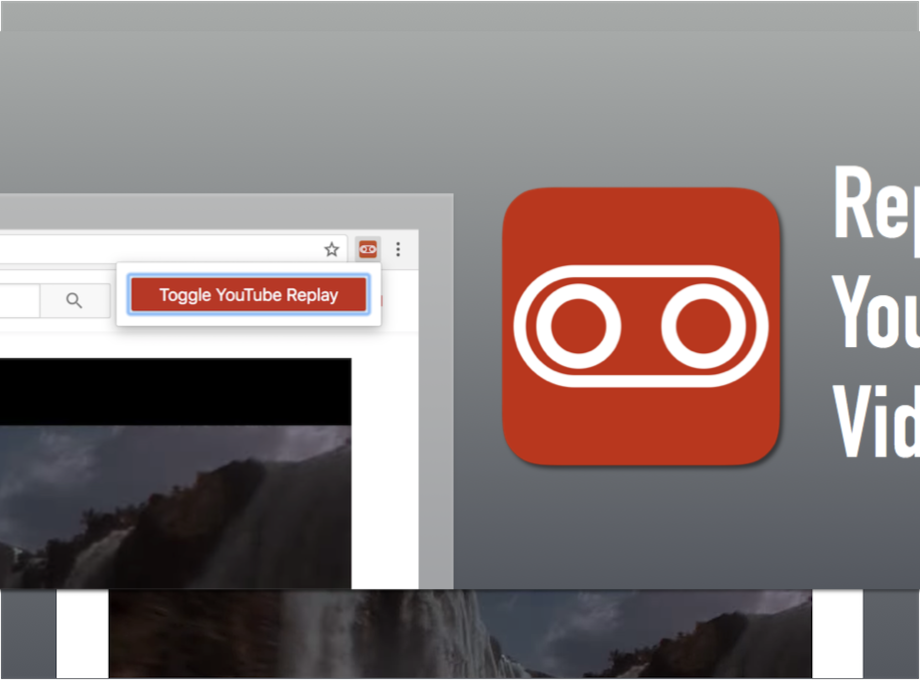
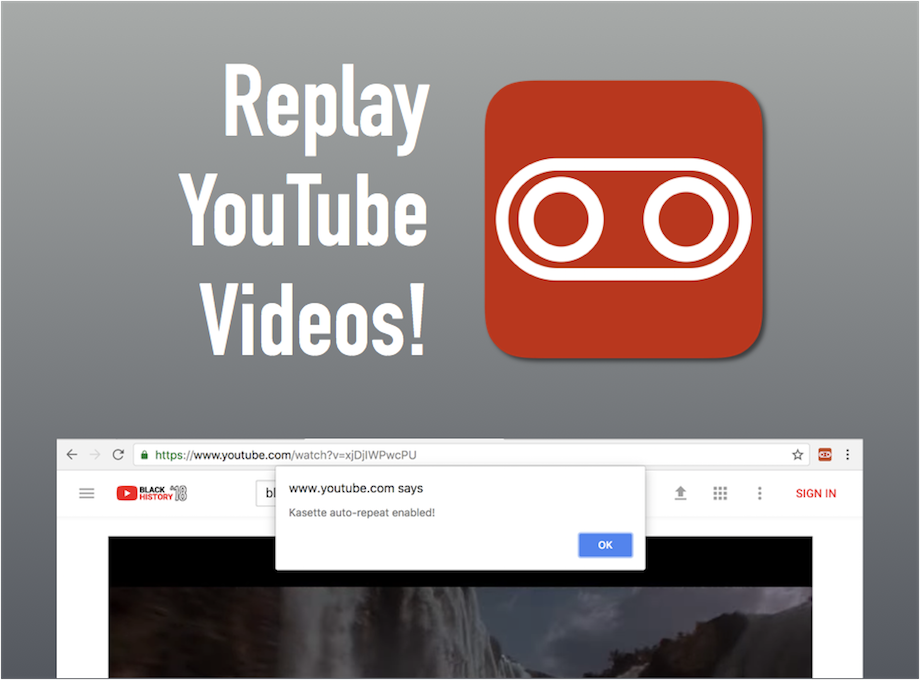
Update an incorrect image

diff --git a/README.md b/README.md
@@ -1,6 +1,6 @@
 # kasette
 
-![Kasette promo image](promo_images/440.png)
+![Kasette promo image](promo_images/920.png)
 
 Chrome extension to put YouTube videos on replay 📺
 
